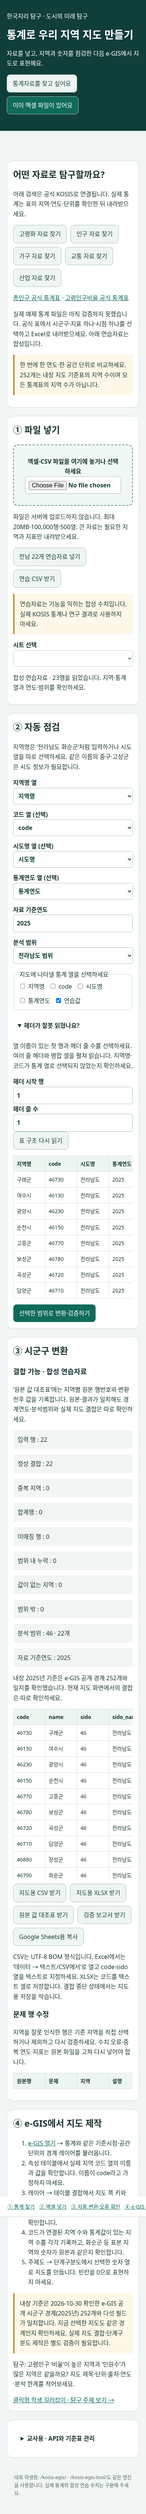
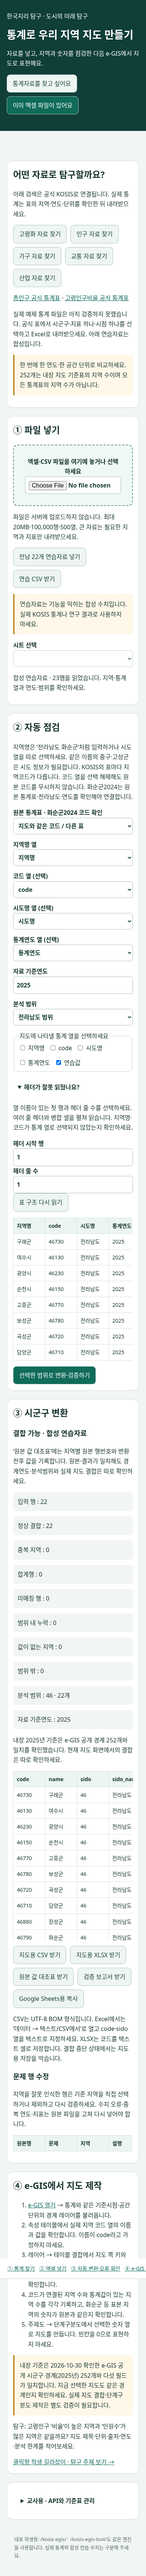
Guard Hwasun source codes with table province and year validation

diff --git a/kosis-egis-tool/core.js b/kosis-egis-tool/core.js
@@ -4,6 +4,22 @@
 const clean=v=>String(v??'').trim().normalize('NFC'), norm=v=>clean(v).replace(/\s+/g,'');
 const aliases={'서울':'서울특별시','부산':'부산광역시','대구':'대구광역시','인천':'인천광역시','광주':'광주광역시','대전':'대전광역시','울산':'울산광역시','세종':'세종특별자치시','경기':'경기도','강원':'강원특별자치도','강원도':'강원특별자치도','충북':'충청북도','충남':'충청남도','전남':'전라남도','전북':'전북특별자치도','전라북도':'전북특별자치도','경북':'경상북도','경남':'경상남도','제주':'제주특별자치도'};
 const province=v=>aliases[clean(v)]||clean(v);
+// Narrow, table-scoped crosswalk supplied by the user; not a national code conversion.
+const sourceProfiles={
+ population_2024:{orgId:'101',tableId:'DT_1B040A3',itemId:'T20',sourceCode:'46790'},
+ aging_2024:{orgId:'101',tableId:'DT_1YL20631',itemId:'T10',sourceCode:'1236370'},
+ business_2024:{orgId:'118',tableId:'DT_118N_SAUPM78',itemId:'16118ED_1',sourceCode:'2017zone_3637',industry:'INDUSTRY_11S0',size:'15118SIZES_0700'}
+};
+function reviewSourceRegion({sourceCode,name,sido,period,selectedPeriod,profile,metadata={}}){
+ const code=clean(sourceCode),n=norm(name),p=sourceProfiles[profile];
+ if(code==='12760'&&(n==='화순군'||profile==='population_2024'))return {applies:true,allowed:false,reason:'12760은 화순군 이름 검색 후보일 뿐 검증된 2024년 결합코드가 아닙니다.'};
+ const foreign=['1236370','2017zone_3637'].includes(code);
+ if(!foreign&&!(p&&(n==='화순군'||code==='46790')))return {applies:false};
+ if(!p)return {applies:true,allowed:false,reason:'원본 통계표를 선택하세요. 이름만으로 서로 다른 코드체계를 연결하지 않습니다.'};
+ const same=Object.entries(p).filter(([k])=>k!=='sourceCode').every(([k,v])=>!clean(metadata[k])||clean(metadata[k])===v);
+ if(!same||code!==p.sourceCode||n!=='화순군'||province(sido)!=='전라남도'||clean(period)!=='2024'||clean(selectedPeriod)!=='2024')return {applies:true,allowed:false,reason:'화순군 기준의 원본표·항목·코드·전라남도·2024년을 함께 확인하세요.'};
+ return {applies:true,allowed:true,targetCode:'46790',reason:'사용자 외부 조회 기준으로 확인한 화순군 2024년 한 지역 교차표'};
+}
 function validateReference(ref){
  if(!ref.length)throw Error('기준표가 비어 있습니다.');
  const codes=new Set(),pairs=new Set();
@@ -41,9 +57,11 @@ function convert(ref,a,settings){
  const byCode=new Map(ref.map(r=>[r.code,r])),provinces=new Set(ref.map(r=>r.sido_name)),issues=[],groups=new Map(),years=new Set();let context='',parent='',input=0,aggregate=0,unmatched=0,outside=0;
  const provinceTokens=[...provinces,...Object.keys(aliases)].sort((x,y)=>y.length-x.length);
  const names=new Map(),pairs=new Map(),targetCodes=new Set(target.map(r=>r.code));for(const r of ref){const k=norm(r.name);if(!names.has(k))names.set(k,[]);names.get(k).push(r);pairs.set(r.sido_name+'|'+k,r);}
+ const sourceColumn=code>=0?code:a.code,headerYears=[...new Set(a.headers.flatMap(h=>h.match(/(?:19|20)\d{2}/g)||[]))];
+ const metaColumn=patterns=>a.headers.findIndex(h=>patterns.test(h));const metaCols={orgId:metaColumn(/^(orgId|ORG_ID)$/i),tableId:metaColumn(/^(tableId|tblId|TBL_ID)$/i),itemId:metaColumn(/^(itemId|itmId|ITM_ID)$/i),industry:metaColumn(/^(industry|산업코드|C2)$/i),size:metaColumn(/^(size|규모코드|C3)$/i)};
  const fixes=settings.fixes||{}, metricHeaders=metrics.map(i=>['code','name','sido','sido_name','base_year'].includes(a.headers[i])?'통계_'+a.headers[i]:a.headers[i]);
  for(let n=a.dataStart;n<a.src.length;n++){
- const row=a.src[n];if(row.every(v=>!clean(v)))continue;input++;const rowNo=n+1,raw=clean(row[name]),rawCode=clean(row[code]);let region=raw,explicit=province(row[sido]),p='';
+ const row=a.src[n];if(row.every(v=>!clean(v)))continue;input++;const rowNo=n+1,raw=clean(row[name]),rawCode=clean(row[sourceColumn]);let region=raw,explicit=province(row[sido]),p='';
  for(const token of provinceTokens){if(region===token||region.startsWith(token+' ')){p=province(token);region=region.slice(token.length).trim();break;}}
  const issue=(type,detail)=>issues.push({row:rowNo,type,region:raw,code:rawCode,detail});
  if(explicit&&!provinces.has(explicit)){issue('시도 오류','시도명 열을 확인하세요.');unmatched++;continue;}
@@ -51,13 +69,19 @@ function convert(ref,a,settings){
  if(p||explicit){const next=p||explicit;if(next!==context)parent='';context=next;}
  if(year>=0&&clean(row[year]))years.add(clean(row[year]));
  const fixed=fixes[rowNo];if(fixed==='skip'){issue('수동 제외','사용자가 제외한 원본행');continue;}
- let match=null;
+ const metadata=Object.fromEntries(Object.entries(metaCols).map(([k,c])=>[k,c>=0?row[c]:'']));
+ const profile=settings.sourceProfile||Object.keys(sourceProfiles).find(key=>Object.entries(sourceProfiles[key]).filter(([k])=>k!=='sourceCode').every(([k,v])=>clean(metadata[k])===v))||'';
+ const sourceYear=year>=0?clean(row[year]):headerYears.length===1?headerYears[0]:'';
+ const guard=reviewSourceRegion({sourceCode:rawCode,name:region,sido:explicit||p,period:sourceYear,selectedPeriod:settings.period,profile,metadata});
+ if(guard.applies&&(!guard.allowed||(fixed&&fixed!==guard.targetCode))){issue('원본 불일치',guard.reason);unmatched++;continue;}
+ let match=guard.allowed?byCode.get(guard.targetCode):null;
+ if(guard.allowed)issue('원본 코드 교차표',rawCode+' → '+guard.targetCode+' / '+profile+' / 사용자 제공 기준, 전남 전수검증 아님');
  if(!fixed&&!rawCode&&(!region||/^(전국|합계|총계|소계|계)$/.test(region))){
   if(context==='세종특별자치시'&&raw!=='전국')match=ref.find(r=>r.sido_name===context);else{aggregate++;issue('합계행','지도 결합에서 제외');continue;}
  }
  const candidates=region?(names.get(norm(region))||[]).filter(r=>!context||r.sido_name===context):[];
- if(fixed){issue('수동 지정','사용자가 기준 지역 '+fixed+' 선택');match=byCode.get(fixed);if(!match){issue('수동 코드 오류','기준표에서 다시 선택하세요.');unmatched++;continue;}}
- else if(rawCode){match=byCode.get(rawCode);if(!match|| (context&&match.sido_name!==context)|| (region&&norm(region)!==norm(match.name)&&!(parent&&norm(parent+region)===norm(match.name)))){issue('코드·이름 불일치','코드 형식·지역명·시도를 함께 확인하세요.');unmatched++;continue;}}
+ if(!guard.allowed&&fixed){issue('수동 지정','사용자가 기준 지역 '+fixed+' 선택');match=byCode.get(fixed);if(!match){issue('수동 코드 오류','기준표에서 다시 선택하세요.');unmatched++;continue;}}
+ else if(!guard.allowed&&rawCode){match=byCode.get(rawCode);if(!match|| (context&&match.sido_name!==context)|| (region&&norm(region)!==norm(match.name)&&!(parent&&norm(parent+region)===norm(match.name)))){issue('코드·이름 불일치','원본 코드·시도·이름을 확인하세요. 다른 코드체계는 검증된 교차표 없이 이름만으로 연결하지 않습니다.');unmatched++;continue;}}
  else if(!match){
   if(candidates.length===1)match=candidates[0];
   else if(context&&parent){match=pairs.get(context+'|'+norm(parent+region))||null;}
@@ -74,13 +98,13 @@ function convert(ref,a,settings){
  const outputRefs=scope==='sample'?ref.filter(r=>groups.has(r.code)):target;
  const output=outputRefs.map(r=>{const hits=groups.get(r.code),hit=hits?.length===1?hits[0]:null;return {...r,...Object.fromEntries(metricHeaders.map((h,j)=>[h,hit?hit.values[j].value:'']))};});
  const outputByCode=new Map(output.map(r=>[r.code,r])),audit=[];
- for(const [key,hits] of groups)for(const hit of hits)metrics.forEach((column,j)=>{const original=a.src[hit.row-1]?.[column]??'',value=outputByCode.get(key)?.[metricHeaders[j]];audit.push({source_row:hit.row,source_code:code>=0?clean(a.src[hit.row-1]?.[code]):'',gis_code:key,name:hit.match.name,metric:metricHeaders[j],original_value:original,normalized_value:hit.values[j].value,output_value:value,value_kind:hit.values[j].kind,comparison:hits.length>1?'중복 미비교':hit.values[j].kind==='invalid'?'수치 오류':value===hit.values[j].value?'일치':'불일치'});});
+ for(const [key,hits] of groups)for(const hit of hits)metrics.forEach((column,j)=>{const original=a.src[hit.row-1]?.[column]??'',value=outputByCode.get(key)?.[metricHeaders[j]];audit.push({source_row:hit.row,source_code:sourceColumn>=0?clean(a.src[hit.row-1]?.[sourceColumn]):'',gis_code:key,name:hit.match.name,metric:metricHeaders[j],original_value:original,normalized_value:hit.values[j].value,output_value:value,value_kind:hit.values[j].kind,comparison:hits.length>1?'중복 미비교':hit.values[j].kind==='invalid'?'수치 오류':value===hit.values[j].value?'일치':'불일치'});});
  const matched=[...groups.values()].filter(h=>h.length===1).length,missing=outputRefs.filter(r=>!groups.has(r.code)).map(r=>r.code),empty=output.filter(r=>metricHeaders.some(h=>r[h]==='')).length;
  const period=settings.period||'',periods=[...years];const boundaryWarning=!period||ref.some(r=>r.base_year!==period)||periods.some(y=>y!==period);
  const stopped=!matched||duplicates>0||periods.length>1||issues.some(x=>/불일치|수치 오류|시도 오류|수동 코드 오류/.test(x.type));
- const status=stopped?'결합 중단':unmatched||missing.length||empty||outside||boundaryWarning||scope==='sample'?'확인 필요':'결합 가능';
+ const status=stopped?'결합 중단':unmatched||missing.length||empty||outside||boundaryWarning||issues.some(x=>/^수동/.test(x.type))||scope==='sample'?'확인 필요':'결합 가능';
  return {output,audit,headers:['code','name','sido','sido_name','base_year',...metricHeaders],issues,summary:{status,input,matched,duplicates,aggregate,unmatched,missing,empty,outside,scope,period,periods,boundaryWarning,referenceCount:ref.length,expected:scope==='sample'?null:target.length}};
 }
 function csv(rows,headers){const q=v=>'"'+String(v??'').replace(/"/g,'""')+'"';return '\uFEFF'+[headers.map(q).join(','),...rows.map(r=>headers.map(h=>q(r[h])).join(','))].join('\r\n');}
-const api={clean,norm,province,validateReference,parseDelimited,decode,number,expand,structure,convert,csv};if(typeof module!=='undefined')module.exports=api;else root.KosisCore=api;
+const api={sourceProfiles,reviewSourceRegion,clean,norm,province,validateReference,parseDelimited,decode,number,expand,structure,convert,csv};if(typeof module!=='undefined')module.exports=api;else root.KosisCore=api;
 })(globalThis);

diff --git a/kosis-egis-tool/index.html b/kosis-egis-tool/index.html
@@ -4,7 +4,7 @@
 <nav aria-label="작업 순서"><a href="#find">① 통계 찾기</a><a href="#upload">② 엑셀 넣기</a><a href="#check">③ 자동 변환·오류 확인</a><a href="#map">④ e-GIS 지도 만들기</a></nav>
 <main><section id="find"><h2>어떤 자료로 탐구할까요?</h2><p>아래 검색은 공식 KOSIS로 연결됩니다. 실제 통계는 표의 지역·연도·단위를 확인한 뒤 내려받으세요.</p><div class="choices" id="topics"></div><p><a href="https://kosis.kr/statHtml/statHtml.do?orgId=101&amp;tblId=DT_1B040A3" target="_blank" rel="noopener">총인구 공식 통계표</a> · <a href="https://kosis.kr/statHtml/statHtml.do?orgId=101&amp;tblId=DT_1YL20631" target="_blank" rel="noopener">고령인구비율 공식 통계표</a></p><p>실제 예제 통계 파일은 아직 검증하지 못했습니다. 공식 표에서 시군구·지표 하나·시점 하나를 선택하고 Excel로 내려받으세요. 아래 연습자료는 합성입니다.</p><p class="notice">한 번에 한 연도·한 공간 단위로 비교하세요. 252개는 내장 지도 기준표의 지역 수이며 모든 통계표의 지역 수가 아닙니다.</p></section>
 <section id="upload"><h2>① 파일 넣기</h2><label id="drop" tabindex="0">엑셀·CSV 파일을 여기에 놓거나 선택하세요<input id="file" type="file" accept=".xlsx,.xls,.csv,.txt"></label><p>파일은 서버에 업로드하지 않습니다. 최대 20MB·100,000행·500열. 큰 자료는 필요한 지역과 지표만 내려받으세요.</p><div class="choices"><button id="demo">전남 22개 연습자료 넣기</button><button id="sample">연습 CSV 받기</button></div><p class="notice">연습자료는 기능을 익히는 합성 수치입니다. 실제 KOSIS 통계나 연구 결과로 사용하지 마세요.</p><label>시트 선택<select id="sheet" disabled></select></label><p id="message" role="status" aria-live="polite">아직 파일을 넣지 않았습니다.</p></section>
-<section id="check"><h2>② 자동 점검</h2><p>지역명은 ‘전라남도 화순군’처럼 입력하거나 시도 열을 따로 선택하세요. 같은 이름의 중구·고성군은 시도 정보가 필요합니다.</p><div class="fields"><label>지역명 열<select id="name"></select></label><label>코드 열 (선택)<select id="code"></select></label><label>시도명 열 (선택)<select id="sido"></select></label><label>통계연도 열 (선택)<select id="year"></select></label><label>자료 기준연도<input id="period" placeholder="예: 2025" pattern="[0-9]{4}"></label><label>분석 범위<select id="scope"><option value="all">전국 · 기준표 전체</option><option value="sample">일부 표본 · 전수 여부 판단 안 함</option></select></label></div><fieldset><legend>지도에 나타낼 통계 열을 선택하세요</legend><div id="metrics"></div></fieldset><details><summary>헤더가 잘못 읽혔나요?</summary><p>열 이름이 있는 첫 행과 헤더 줄 수를 선택하세요. 여러 줄 헤더와 병합 셀을 펼쳐 읽습니다. 지역명·코드가 통계 열로 선택되지 않았는지 확인하세요.</p><label>헤더 시작 행<input id="header" type="number" value="1" min="1"></label><label>헤더 줄 수<input id="depth" type="number" min="1" max="5" value="1"></label><button id="structure">표 구조 다시 읽기</button></details><div id="raw" class="table"></div><button id="convert" class="primary" disabled>선택한 범위로 변환·검증하기</button></section>
+<section id="check"><h2>② 자동 점검</h2><p>지역명은 ‘전라남도 화순군’처럼 입력하거나 시도 열을 따로 선택하세요. 같은 이름의 중구·고성군은 시도 정보가 필요합니다. KOSIS의 표마다 지역코드가 다릅니다. 코드 열을 선택 해제해도 원본 코드를 무시하지 않습니다. 화순군2024는 원본 통계표·전라남도·연도를 확인해야 연결합니다.</p><div class="fields"><label>원본 통계표 · 화순군2024 코드 확인<select id="sourceProfile"><option value="">지도와 같은 코드 / 다른 표</option><option value="population_2024">총인구 · DT_1B040A3 / T20</option><option value="aging_2024">고령인구비율 · DT_1YL20631 / T10</option><option value="business_2024">사업체수 · DT_118N_SAUPM78 / 16118ED_1</option></select></label><label>지역명 열<select id="name"></select></label><label>코드 열 (선택)<select id="code"></select></label><label>시도명 열 (선택)<select id="sido"></select></label><label>통계연도 열 (선택)<select id="year"></select></label><label>자료 기준연도<input id="period" placeholder="예: 2025" pattern="[0-9]{4}"></label><label>분석 범위<select id="scope"><option value="all">전국 · 기준표 전체</option><option value="sample">일부 표본 · 전수 여부 판단 안 함</option></select></label></div><fieldset><legend>지도에 나타낼 통계 열을 선택하세요</legend><div id="metrics"></div></fieldset><details><summary>헤더가 잘못 읽혔나요?</summary><p>열 이름이 있는 첫 행과 헤더 줄 수를 선택하세요. 여러 줄 헤더와 병합 셀을 펼쳐 읽습니다. 지역명·코드가 통계 열로 선택되지 않았는지 확인하세요.</p><label>헤더 시작 행<input id="header" type="number" value="1" min="1"></label><label>헤더 줄 수<input id="depth" type="number" min="1" max="5" value="1"></label><button id="structure">표 구조 다시 읽기</button></details><div id="raw" class="table"></div><button id="convert" class="primary" disabled>선택한 범위로 변환·검증하기</button></section>
 <section id="result"><h2>③ 시군구 변환</h2><h3 id="readiness" role="status">파일을 넣고 변환하세요.</h3><p>‘원본 값 대조표’에는 지역별 원본 행번호와 변환 전후 값을 기록합니다. 원본·결과가 일치해도 경계연도·분석범위와 실제 지도 결합은 따로 확인하세요.</p><div id="summary" class="fields"></div><p id="warnings"></p><div id="preview" class="table"></div><div class="choices"><button id="csv" disabled>지도용 CSV 받기</button><button id="xlsx" disabled>지도용 XLSX 받기</button><button id="audit" disabled>원본 값 대조표 받기</button><button id="report" disabled>검증 보고서 받기</button><button id="copy" disabled>Google Sheets용 복사</button></div><p>CSV는 UTF-8 BOM 형식입니다. Excel에서는 ‘데이터 → 텍스트/CSV에서’로 열고 code·sido 열을 텍스트로 지정하세요. XLSX는 코드를 텍스트 셀로 저장합니다. 결합 중단 상태에서는 지도용 저장을 막습니다.</p><h3>문제 행 수정</h3><p>지역을 잘못 인식한 행은 기준 지역을 직접 선택하거나 제외하고 다시 검증하세요. 수치 오류·중복 연도·지표는 원본 파일을 고쳐 다시 넣어야 합니다.</p><div id="issues" class="table"></div></section>
 <section id="map"><h2>④ e-GIS에서 지도 제작</h2><ol><li><a href="https://www.e-gis.kr/" target="_blank" rel="noopener">e-GIS 열기</a> → 통계와 같은 기준시점·공간 단위의 경계 레이어를 불러옵니다.</li><li>속성 테이블에서 실제 지역 코드 열의 이름과 값을 확인합니다. 이름이 code라고 가정하지 마세요.</li><li>레이어 → 테이블 결합에서 지도 쪽 키와 CSV 쪽 <b>code</b>를 각각 선택합니다. Google Sheets도 실제로 인식된 열 이름과 값을 확인합니다.</li><li>코드가 연결된 지역 수와 통계값이 있는 지역 수를 각각 기록하고, 화순군 등 표본 지역의 숫자가 원본과 같은지 확인합니다.</li><li>주제도 → 단계구분도에서 선택한 숫자 열로 지도를 만듭니다. 빈칸을 0으로 표현하지 마세요.</li></ol><p class="notice">내장 기준은 2026-10-30 확인한 e-GIS 공개 시군구 경계(2025년) 252개와 다섯 필드가 일치합니다. 지금 선택한 지도도 같은 경계인지 확인하세요. 실제 지도 결합·단계구분도 제작은 별도 검증이 필요합니다.</p><p>탐구: 고령인구 ‘비율’이 높은 지역과 ‘인원수’가 많은 지역은 같을까요? 지도 제목·단위·출처·연도·분석 한계를 적어보세요.</p><a href="../egis-student-guide/">클릭형 학생 길라잡이 · 탐구 주제 보기 →</a></section>
 <details id="teacher"><summary>교사용 · API와 기준표 관리</summary><h2>기준표·수업 자료 관리</h2><p>내장 2025년 기준표의 code·name·sido·sido_name·base_year를 유지합니다. 개편된 지역을 과거 지역과 자동으로 합치거나 값을 복제하지 않습니다.</p><label>실제 레이어에서 추출한 기준 CSV<input id="reference" type="file" accept=".csv,.txt"></label><button id="downloadRef">현재 기준표 받기</button><button id="share">학생 안내·링크 복사</button><a href="../kosis-egis-tool/README.md">설계·테스트 실행 안내</a><h2>KOSIS API 고급 조회</h2><p>API 키를 입력하지 마세요. 별도 인증·호출 제한이 설정된 교사 관리 Worker만 사용하세요. 화면을 접어 두는 것은 인증이 아닙니다.</p><div class="fields"><label>교사 Worker HTTPS 주소<input id="worker" placeholder="https://관리하는-worker주소"></label><label>기관 ID<input id="orgId" value="101"></label><label>통계표 ID<input id="tblId" placeholder="공식 표에서 확인"></label><label>분류 objL1<input id="objL1" value="ALL"></label><label>항목 itmId<input id="itmId" placeholder="한 항목 코드"></label><label>주기<select id="prdSe"><option>Y</option><option>M</option><option>Q</option></select></label><label>시작 시점<input id="startPrdDe"></label><label>끝 시점<input id="endPrdDe"></label></div><button id="fetch">조회 결과를 파일처럼 불러오기</button><p id="apiMessage" role="status">실조회는 인증과 서비스 접근 권한이 필요합니다. 항목·시점을 하나씩 조회하세요.</p></details>

diff --git a/kosis-egis/index.html b/kosis-egis/index.html
@@ -4,7 +4,7 @@
 <nav aria-label="작업 순서"><a href="#find">① 통계 찾기</a><a href="#upload">② 엑셀 넣기</a><a href="#check">③ 자동 변환·오류 확인</a><a href="#map">④ e-GIS 지도 만들기</a></nav>
 <main><section id="find"><h2>어떤 자료로 탐구할까요?</h2><p>아래 검색은 공식 KOSIS로 연결됩니다. 실제 통계는 표의 지역·연도·단위를 확인한 뒤 내려받으세요.</p><div class="choices" id="topics"></div><p><a href="https://kosis.kr/statHtml/statHtml.do?orgId=101&amp;tblId=DT_1B040A3" target="_blank" rel="noopener">총인구 공식 통계표</a> · <a href="https://kosis.kr/statHtml/statHtml.do?orgId=101&amp;tblId=DT_1YL20631" target="_blank" rel="noopener">고령인구비율 공식 통계표</a></p><p>실제 예제 통계 파일은 아직 검증하지 못했습니다. 공식 표에서 시군구·지표 하나·시점 하나를 선택하고 Excel로 내려받으세요. 아래 연습자료는 합성입니다.</p><p class="notice">한 번에 한 연도·한 공간 단위로 비교하세요. 252개는 내장 지도 기준표의 지역 수이며 모든 통계표의 지역 수가 아닙니다.</p></section>
 <section id="upload"><h2>① 파일 넣기</h2><label id="drop" tabindex="0">엑셀·CSV 파일을 여기에 놓거나 선택하세요<input id="file" type="file" accept=".xlsx,.xls,.csv,.txt"></label><p>파일은 서버에 업로드하지 않습니다. 최대 20MB·100,000행·500열. 큰 자료는 필요한 지역과 지표만 내려받으세요.</p><div class="choices"><button id="demo">전남 22개 연습자료 넣기</button><button id="sample">연습 CSV 받기</button></div><p class="notice">연습자료는 기능을 익히는 합성 수치입니다. 실제 KOSIS 통계나 연구 결과로 사용하지 마세요.</p><label>시트 선택<select id="sheet" disabled></select></label><p id="message" role="status" aria-live="polite">아직 파일을 넣지 않았습니다.</p></section>
-<section id="check"><h2>② 자동 점검</h2><p>지역명은 ‘전라남도 화순군’처럼 입력하거나 시도 열을 따로 선택하세요. 같은 이름의 중구·고성군은 시도 정보가 필요합니다.</p><div class="fields"><label>지역명 열<select id="name"></select></label><label>코드 열 (선택)<select id="code"></select></label><label>시도명 열 (선택)<select id="sido"></select></label><label>통계연도 열 (선택)<select id="year"></select></label><label>자료 기준연도<input id="period" placeholder="예: 2025" pattern="[0-9]{4}"></label><label>분석 범위<select id="scope"><option value="all">전국 · 기준표 전체</option><option value="sample">일부 표본 · 전수 여부 판단 안 함</option></select></label></div><fieldset><legend>지도에 나타낼 통계 열을 선택하세요</legend><div id="metrics"></div></fieldset><details><summary>헤더가 잘못 읽혔나요?</summary><p>열 이름이 있는 첫 행과 헤더 줄 수를 선택하세요. 여러 줄 헤더와 병합 셀을 펼쳐 읽습니다. 지역명·코드가 통계 열로 선택되지 않았는지 확인하세요.</p><label>헤더 시작 행<input id="header" type="number" value="1" min="1"></label><label>헤더 줄 수<input id="depth" type="number" min="1" max="5" value="1"></label><button id="structure">표 구조 다시 읽기</button></details><div id="raw" class="table"></div><button id="convert" class="primary" disabled>선택한 범위로 변환·검증하기</button></section>
+<section id="check"><h2>② 자동 점검</h2><p>지역명은 ‘전라남도 화순군’처럼 입력하거나 시도 열을 따로 선택하세요. 같은 이름의 중구·고성군은 시도 정보가 필요합니다. KOSIS의 표마다 지역코드가 다릅니다. 코드 열을 선택 해제해도 원본 코드를 무시하지 않습니다. 화순군2024는 원본 통계표·전라남도·연도를 확인해야 연결합니다.</p><div class="fields"><label>원본 통계표 · 화순군2024 코드 확인<select id="sourceProfile"><option value="">지도와 같은 코드 / 다른 표</option><option value="population_2024">총인구 · DT_1B040A3 / T20</option><option value="aging_2024">고령인구비율 · DT_1YL20631 / T10</option><option value="business_2024">사업체수 · DT_118N_SAUPM78 / 16118ED_1</option></select></label><label>지역명 열<select id="name"></select></label><label>코드 열 (선택)<select id="code"></select></label><label>시도명 열 (선택)<select id="sido"></select></label><label>통계연도 열 (선택)<select id="year"></select></label><label>자료 기준연도<input id="period" placeholder="예: 2025" pattern="[0-9]{4}"></label><label>분석 범위<select id="scope"><option value="all">전국 · 기준표 전체</option><option value="sample">일부 표본 · 전수 여부 판단 안 함</option></select></label></div><fieldset><legend>지도에 나타낼 통계 열을 선택하세요</legend><div id="metrics"></div></fieldset><details><summary>헤더가 잘못 읽혔나요?</summary><p>열 이름이 있는 첫 행과 헤더 줄 수를 선택하세요. 여러 줄 헤더와 병합 셀을 펼쳐 읽습니다. 지역명·코드가 통계 열로 선택되지 않았는지 확인하세요.</p><label>헤더 시작 행<input id="header" type="number" value="1" min="1"></label><label>헤더 줄 수<input id="depth" type="number" min="1" max="5" value="1"></label><button id="structure">표 구조 다시 읽기</button></details><div id="raw" class="table"></div><button id="convert" class="primary" disabled>선택한 범위로 변환·검증하기</button></section>
 <section id="result"><h2>③ 시군구 변환</h2><h3 id="readiness" role="status">파일을 넣고 변환하세요.</h3><p>‘원본 값 대조표’에는 지역별 원본 행번호와 변환 전후 값을 기록합니다. 원본·결과가 일치해도 경계연도·분석범위와 실제 지도 결합은 따로 확인하세요.</p><div id="summary" class="fields"></div><p id="warnings"></p><div id="preview" class="table"></div><div class="choices"><button id="csv" disabled>지도용 CSV 받기</button><button id="xlsx" disabled>지도용 XLSX 받기</button><button id="audit" disabled>원본 값 대조표 받기</button><button id="report" disabled>검증 보고서 받기</button><button id="copy" disabled>Google Sheets용 복사</button></div><p>CSV는 UTF-8 BOM 형식입니다. Excel에서는 ‘데이터 → 텍스트/CSV에서’로 열고 code·sido 열을 텍스트로 지정하세요. XLSX는 코드를 텍스트 셀로 저장합니다. 결합 중단 상태에서는 지도용 저장을 막습니다.</p><h3>문제 행 수정</h3><p>지역을 잘못 인식한 행은 기준 지역을 직접 선택하거나 제외하고 다시 검증하세요. 수치 오류·중복 연도·지표는 원본 파일을 고쳐 다시 넣어야 합니다.</p><div id="issues" class="table"></div></section>
 <section id="map"><h2>④ e-GIS에서 지도 제작</h2><ol><li><a href="https://www.e-gis.kr/" target="_blank" rel="noopener">e-GIS 열기</a> → 통계와 같은 기준시점·공간 단위의 경계 레이어를 불러옵니다.</li><li>속성 테이블에서 실제 지역 코드 열의 이름과 값을 확인합니다. 이름이 code라고 가정하지 마세요.</li><li>레이어 → 테이블 결합에서 지도 쪽 키와 CSV 쪽 <b>code</b>를 각각 선택합니다. Google Sheets도 실제로 인식된 열 이름과 값을 확인합니다.</li><li>코드가 연결된 지역 수와 통계값이 있는 지역 수를 각각 기록하고, 화순군 등 표본 지역의 숫자가 원본과 같은지 확인합니다.</li><li>주제도 → 단계구분도에서 선택한 숫자 열로 지도를 만듭니다. 빈칸을 0으로 표현하지 마세요.</li></ol><p class="notice">내장 기준은 2026-10-30 확인한 e-GIS 공개 시군구 경계(2025년) 252개와 다섯 필드가 일치합니다. 지금 선택한 지도도 같은 경계인지 확인하세요. 실제 지도 결합·단계구분도 제작은 별도 검증이 필요합니다.</p><p>탐구: 고령인구 ‘비율’이 높은 지역과 ‘인원수’가 많은 지역은 같을까요? 지도 제목·단위·출처·연도·분석 한계를 적어보세요.</p><a href="../egis-student-guide/">클릭형 학생 길라잡이 · 탐구 주제 보기 →</a></section>
 <details id="teacher"><summary>교사용 · API와 기준표 관리</summary><h2>기준표·수업 자료 관리</h2><p>내장 2025년 기준표의 code·name·sido·sido_name·base_year를 유지합니다. 개편된 지역을 과거 지역과 자동으로 합치거나 값을 복제하지 않습니다.</p><label>실제 레이어에서 추출한 기준 CSV<input id="reference" type="file" accept=".csv,.txt"></label><button id="downloadRef">현재 기준표 받기</button><button id="share">학생 안내·링크 복사</button><a href="../kosis-egis-tool/README.md">설계·테스트 실행 안내</a><h2>KOSIS API 고급 조회</h2><p>API 키를 입력하지 마세요. 별도 인증·호출 제한이 설정된 교사 관리 Worker만 사용하세요. 화면을 접어 두는 것은 인증이 아닙니다.</p><div class="fields"><label>교사 Worker HTTPS 주소<input id="worker" placeholder="https://관리하는-worker주소"></label><label>기관 ID<input id="orgId" value="101"></label><label>통계표 ID<input id="tblId" placeholder="공식 표에서 확인"></label><label>분류 objL1<input id="objL1" value="ALL"></label><label>항목 itmId<input id="itmId" placeholder="한 항목 코드"></label><label>주기<select id="prdSe"><option>Y</option><option>M</option><option>Q</option></select></label><label>시작 시점<input id="startPrdDe"></label><label>끝 시점<input id="endPrdDe"></label></div><button id="fetch">조회 결과를 파일처럼 불러오기</button><p id="apiMessage" role="status">실조회는 인증과 서비스 접근 권한이 필요합니다. 항목·시점을 하나씩 조회하세요.</p></details>

diff --git a/kosis-egis-tool/app.js b/kosis-egis-tool/app.js
@@ -15,7 +15,7 @@ function analyze(settings){invalidate();analysis=C.structure(rows,merges,setting
 async function load(file){invalidate();$('convert').disabled=true;analysis=null;fixes={};synthetic=false;book=null;merges=[];$('sheet').replaceChildren();$('sheet').disabled=true;if(file.size>20*1024*1024)throw Error('파일이 20MB보다 큽니다. KOSIS에서 필요한 지역·지표만 내려받으세요.');const ext=file.name.split('.').pop().toLowerCase();message('파일을 읽고 있습니다…');await new Promise(r=>setTimeout(r,20));
  if(['csv','txt'].includes(ext))rows=C.parseDelimited(C.decode(await file.arrayBuffer()));else if(['xlsx','xls'].includes(ext)){if(!globalThis.XLSX)throw Error('Excel 기능을 불러오지 못했습니다. CSV로 저장해 넣거나 연결을 확인하세요.');book=XLSX.read(await file.arrayBuffer(),{type:'array',cellDates:false});book.SheetNames.forEach(n=>option($('sheet'),n,n));$('sheet').disabled=false;$('sheet').value=book.SheetNames.find(n=>!/설명|메타|주석|안내/i.test(n))||book.SheetNames[0];readSheet();return;}else throw Error('XLSX·XLS·CSV·TXT 파일만 지원합니다.');if(rows.length>100000)throw Error('100,000행보다 많습니다. 연도·지표를 줄여 다시 넣으세요.');analyze();}
 function readSheet(){invalidate();analysis=null;$('convert').disabled=true;fixes={};const ws=book.Sheets[$('sheet').value];const range=XLSX.utils.decode_range(ws['!ref']||'A1');if(range.e.r>=100000||range.e.c>=500)throw Error('시트가 100,000행 또는 500열을 초과합니다.');rows=XLSX.utils.sheet_to_json(ws,{header:1,defval:'',raw:true,blankrows:true});merges=ws['!merges']||[];analyze();}
-function settings(){return {metrics:[...$('metrics').querySelectorAll('input:checked')].map(e=>+e.value),...Object.fromEntries(['name','code','sido','year'].map(id=>[id,+$(id).value])),period:$('period').value.trim(),scope:$('scope').value,fixes};}
+function settings(){return {metrics:[...$('metrics').querySelectorAll('input:checked')].map(e=>+e.value),...Object.fromEntries(['name','code','sido','year'].map(id=>[id,+$(id).value])),period:$('period').value.trim(),scope:$('scope').value,sourceProfile:$('sourceProfile').value,fixes};}
 async function run(){if(!analysis)return;invalidate();const epoch=generation;$('readiness').textContent='지역과 수치를 점검하고 있습니다…';
  const converted=await new Promise((resolve,reject)=>{const worker=new Worker('../kosis-egis-tool/conversion-worker.js');worker.onmessage=e=>{worker.terminate();e.data.error?reject(Error(e.data.error)):resolve(e.data.result);};worker.onerror=()=>{worker.terminate();reject(Error('변환 작업을 시작하지 못했습니다. 페이지를 새로고침하세요.'));};worker.postMessage({ref,analysis,settings:settings()});});
  if(epoch!==generation)return;result=converted;const s=result.summary;$('readiness').textContent=s.status+(synthetic?' · 합성 연습자료':'');
@@ -24,16 +24,16 @@ async function run(){if(!analysis)return;invalidate();const epoch=generation;$('
  $('warnings').textContent=(s.boundaryWarning?'연도 확인 필요: 자료 연도와 기준표 연도가 다르거나 미입력입니다. 행정구역 개편·경계 기준일을 확인하세요. ':'')+(referenceVerified?'내장 2025년 기준은 e-GIS 공개 경계 252개와 일치를 확인했습니다. 현재 지도 화면에서의 결합은 따로 확인하세요. ':'교체한 기준표와 실제 지도 경계의 일치를 확인하세요. ')+(s.missing.length?'범위 내 누락 코드: '+s.missing.join(', '):'');
  table($('preview'),result.headers,result.output.slice(0,40).map(r=>result.headers.map(h=>r[h])));
  table($('issues'),['원본행','문제','지역','설명','지역 수정'],result.issues.slice(0,200).map(i=>[i.row,i.type,i.region,i.detail,'']));
- [...$('issues').querySelectorAll('tr')].slice(1).forEach((tr,i)=>{const issue=result.issues[i];if(!/미매칭|동명이|불일치|시도 오류/.test(issue.type))return;const select=document.createElement('select');select.setAttribute('aria-label',issue.row+'행 지역 수정');option(select,'','지역 직접 선택');option(select,'skip','이 행 제외');ref.forEach(r=>option(select,r.code,r.sido_name+' '+r.name));select.onchange=()=>{if(select.value){fixes[issue.row]=select.value;safe(run)();}};tr.lastChild.append(select);});
+ [...$('issues').querySelectorAll('tr')].slice(1).forEach((tr,i)=>{const issue=result.issues[i];if(issue.type==='원본 불일치'||!/미매칭|동명이|불일치|시도 오류/.test(issue.type))return;const select=document.createElement('select');select.setAttribute('aria-label',issue.row+'행 지역 수정');option(select,'','지역 직접 선택');option(select,'skip','이 행 제외');ref.forEach(r=>option(select,r.code,r.sido_name+' '+r.name));select.onchange=()=>{if(select.value){fixes[issue.row]=select.value;safe(run)();}};tr.lastChild.append(select);});
  ['csv','xlsx','copy'].forEach(id=>$(id).disabled=s.status==='결합 중단');$('report').disabled=false;$('audit').disabled=false;}
 function download(text,name,type='text/csv;charset=utf-8'){const a=document.createElement('a'),url=URL.createObjectURL(new Blob([text],{type}));a.href=url;a.download=name;a.click();setTimeout(()=>URL.revokeObjectURL(url),1000);}
 function demoRows(){return [['지역명','code','시도명','통계연도','연습값'],...ref.filter(r=>r.sido==='46').map((r,i)=>[r.name,r.code,r.sido_name,r.base_year,i+1])];}
-function demo(){$('file').value='';rows=demoRows();merges=[];book=null;fixes={};synthetic=true;$('sheet').replaceChildren();$('sheet').disabled=true;analyze();$('scope').value='46';$('period').value='2025';}
+function demo(){$('sourceProfile').value='';$('file').value='';rows=demoRows();merges=[];book=null;fixes={};synthetic=true;$('sheet').replaceChildren();$('sheet').disabled=true;analyze();$('scope').value='46';$('period').value='2025';}
 const safe=fn=>async(...args)=>{try{await fn(...args);}catch(e){message('확인 필요: '+e.message);if(!result)$('readiness').textContent='확인 필요: '+e.message;}};
 async function init(){const response=await fetch('../kosis-egis-tool/reference.json');if(!response.ok)throw Error('기준표를 불러오지 못했습니다. 페이지를 새로고침하세요.');ref=C.validateReference(await response.json());for(const s of [...new Set(ref.map(r=>r.sido))])option($('scope'),s,ref.find(r=>r.sido===s).sido_name+' 범위');
  for(const [topic,query] of [['고령화','고령인구비율 시군구'],['인구','총인구 시군구'],['가구','1인가구 시군구'],['교통','자동차등록 시군구'],['산업','사업체 종사자 시군구']]){const a=document.createElement('a');a.className='button';a.textContent=topic+' 자료 찾기';a.href='https://kosis.kr/search/search.do?query='+encodeURIComponent(query);a.target='_blank';a.rel='noopener';$('topics').append(a);}
  $('file').onchange=safe(e=>e.target.files[0]&&load(e.target.files[0]));$('sheet').onchange=safe(readSheet);$('drop').onkeydown=e=>{if(e.key==='Enter'||e.key===' '){e.preventDefault();$('file').click();}};for(const type of ['dragover','drop'])$('drop').addEventListener(type,e=>{e.preventDefault();if(type==='drop'&&e.dataTransfer.files[0])safe(load)(e.dataTransfer.files[0]);});
- $('demo').onclick=demo;$('sample').onclick=()=>{const d=demoRows();download(C.csv(d.slice(1).map(r=>Object.fromEntries(d[0].map((h,i)=>[h,r[i]]))),d[0]),'합성연습_전남22.csv');};$('convert').onclick=safe(run);$('structure').onclick=safe(()=>{fixes={};analyze({start:+$('header').value-1,depth:+$('depth').value});});for(const id of ['name','code','sido','year','period','scope'])$(id).onchange=invalidate;
+ $('demo').onclick=demo;$('sample').onclick=()=>{const d=demoRows();download(C.csv(d.slice(1).map(r=>Object.fromEntries(d[0].map((h,i)=>[h,r[i]]))),d[0]),'합성연습_전남22.csv');};$('convert').onclick=safe(run);$('structure').onclick=safe(()=>{fixes={};analyze({start:+$('header').value-1,depth:+$('depth').value});});for(const id of ['name','code','sido','year','period','scope','sourceProfile'])$(id).onchange=invalidate;
  $('audit').onclick=()=>result&&download(C.csv(result.audit,['source_row','source_code','gis_code','name','metric','original_value','normalized_value','output_value','value_kind','comparison']),'egis_original_value_audit.csv');
  $('csv').onclick=()=>result&&download(C.csv(result.output,result.headers),'egis_'+(synthetic?'합성연습':'통계')+'.csv');$('report').onclick=()=>result&&download(JSON.stringify({synthetic,...result.summary,issues:result.issues,audit:result.audit},null,2),'egis_validation.json','application/json');
  $('xlsx').onclick=safe(()=>{if(!result)return;if(!globalThis.XLSX)throw Error('Excel 기능을 사용할 수 없습니다. CSV를 사용하세요.');const wb=XLSX.utils.book_new();XLSX.utils.book_append_sheet(wb,XLSX.utils.json_to_sheet(result.output,{header:result.headers}),'GIS');XLSX.utils.book_append_sheet(wb,XLSX.utils.json_to_sheet(result.issues),'검증');XLSX.utils.book_append_sheet(wb,XLSX.utils.json_to_sheet(result.audit),'원본값대조');XLSX.writeFile(wb,'egis_'+(synthetic?'합성연습':'통계')+'.xlsx');});$('copy').onclick=safe(async()=>{if(result){await navigator.clipboard.writeText([result.headers,...result.output.map(r=>result.headers.map(h=>r[h]))].map(r=>r.map(v=>String(v).replace(/[\t\r\n]/g,' ')).join('\t')).join('\n'));message('복사했습니다. GIS에서 실제 열 이름과 코드 값을 확인하세요.');}});

diff --git a/tests/kosis-egis/build_windows_kit.py b/tests/kosis-egis/build_windows_kit.py
@@ -23,6 +23,7 @@ if not js.exists():raise SystemExit('Run npm ci --ignore-scripts in tests/kosis-
 shutil.copy2(js,kit/'site/kosis-egis-tool/xlsx.full.min.js');shutil.copy2(js.parent.parent/'LICENSE',kit/'SheetJS-LICENSE.txt')
 p=kit/'site/kosis-egis/index.html';p.write_text(p.read_text(encoding='utf-8').replace('https://cdn.jsdelivr.net/npm/xlsx@0.18.5/dist/xlsx.full.min.js','../kosis-egis-tool/xlsx.full.min.js'),encoding='utf-8')
 shutil.copy2(root/'docs/kosis-egis/windows-guide.md',kit/'WINDOWS-START-HERE.md');shutil.copy2(root/'docs/kosis-egis/classroom-checklist.md',kit/'PR8-CHECKLIST.md')
+shutil.copy2(root/'docs/kosis-egis/hwasun-2024-followup.md',kit/'HWASUN-2024-FOLLOWUP.md')
 (kit/'README.md').write_text('Start with WINDOWS-START-HERE.md. Node.js 22+ required. No Python or npm install is needed on the teacher PC.\n',encoding='utf-8')
 manifest={str(p.relative_to(kit)).replace('\\','/'):hashlib.sha256(p.read_bytes()).hexdigest() for p in kit.rglob('*') if p.is_file()}
 (kit/'sha256-manifest.json').write_text(json.dumps(manifest,ensure_ascii=False,indent=2),encoding='utf-8')

diff --git a/docs/kosis-egis/hwasun-2024-followup.md b/docs/kosis-egis/hwasun-2024-followup.md
@@ -1,0 +1,52 @@
+# 화순군 2024 기준값 후속 검증과 남은 수동 작업
+
+기준 PR8 / c3b4e7099c308e40bd5af5165bdcc9233433bbd3 이후 보완. 2026-10-30 KST.
+
+## 현재 판단
+
+**실제 수업 최종 승인 보류.** 사용자 외부 조회 기준값으로 화순군 한 지역의 세 지표를 재현했고, 코드체계가 다른 원본을 잘못 연결하는 경로를 막았습니다. 전남22개 전수 비교와 실제 e-GIS 단계구분도 제작은 미검증입니다. 이 작업에서 공식 원본 파일을 다운로드하거나 세 수치를 독립 재조회했다고 주장하지 않습니다.
+
+| 원본표 / 항목 | 사용자 확인 원본 코드 | 사용자 외부조회 기준값 | 지도키 |
+|---|---|---|---|
+| org101 / DT_1B040A3 / T20 | 46790 | 60,735명 | 46790 |
+| org101 / DT_1YL20631 / T10 | 1236370 | 30.9% | 46790 |
+| org118 / DT_118N_SAUPM78 / 16118ED_1 | 2017zone_3637 | 2,605개(전체산업·전규모) | 46790 |
+
+위 코드는 **각 통계표 안의 분류코드**입니다. 길이·접두를 고쳐 GIS코드를 만드는 규칙이 아닙니다. 출처표·항목·지역·시점에 묶인 화순군2024 한 지역 교차표만 확인했습니다. 다른21개 지역의 코드를 이 규칙으로 생성하지 않습니다. 인구표에서 이름검색으로 반환된12760은 원본표·행정단계·시점 확인 없이 선택하지 않습니다. 12760의 역사적 의미를 추측하거나 모든 표에서 무효인 코드라고 단정하지 않습니다.
+
+## 안전성 수정과 실제 검증 범위
+
+- 기존에는 코드 열을 ‘선택 안 함’으로 바꾸면 잘못된 원본코드를 버리고 화순군 이름만으로 연결할 수 있었습니다. 이제 인식된 원본코드를 계속 확인하고 대조표에도 보존합니다.
+- 화면의 ‘원본 통계표·화순군2024 코드 확인’에서 해당 표를 선택합니다. 표·항목·원본코드·전라남도·화순군·원본2024년·선택한2024년을 확인한 경우에만 제한 교차표를 사용합니다. 원본에 orgId/TBL_ID/ITM_ID 등 출처 열이 있으면 선택정보와 함께 대조합니다. 사업체 원본에 산업/규모 코드가 있으면 전체산업·전규모와 대조합니다.
+- 시도는 해당 원본행의 별도 시도 열 또는 ‘전라남도 화순군’처럼 행에 명시돼야 합니다. 앞서 나온 다른 행의 시도를 몰래 빌려 확인 처리하지 않습니다. 연도는 원본 시점열 또는 유일한 헤더연도로 검증합니다. 원본 근거가 없으면 원본 확인을 요구합니다.
+- 12760은 이름 일치·코드선택해제·수동지역지정으로 통과하지 않습니다. 명시적으로 제외할 수는 있지만 제외내역과 확인필요 상태가 남으며 전수성공으로 표시하지 않습니다.
+- 1236370·2017zone_3637은 다른 표·시도·연도·이름이거나 출처를 선택하지 않으면 차단합니다. 확인된 교차표 없는 다른 원본코드는 이름만으로 자동 연결하지 않습니다.
+- GIS2025 기준표와 통계2024의 차이는 경고로 유지합니다. 화순군1개가 맞더라도 전남 범위를 선택하면 나머지21개는 누락으로 남습니다.
+- Windows 원본대조 도구도 같은 원본코드 검증을 적용하고, `SOURCE` 모드나 행 교차표로12760을 우회하지 못하도록 했습니다. 숫자 비교는 원본파일과 실제 다운로드CSV 사이에서 별도 수행합니다.
+
+회귀 기준은 `tests/kosis-egis/fixtures/hwasun-2024-user-reported.json`에 저장했습니다. provenance에는 사용자외부조회·공식원본미제공·에이전트독립다운로드아님·한지역세지표를 명시했습니다. 테스트에서 만든 임시 엑셀은 사용자 기준값을 담은 **재현용 파일**이며 공식 다운로드 원본이 아닙니다.
+
+## 테스트
+
+엔진28개(기존20+후속8) 통과. 세 수치와 원본코드 보존·CSV/XLSX 왕복,12760 차단, 출처·항목·시도·연도·사업체 산업/규모 충돌, 후보 두 개 중 잘못된 코드 채택 금지, 전남21개 누락을 확인했습니다. 보안4개·기존회귀8개·외부요청을 차단한 로컬브라우저12시나리오도 통과했습니다. Windows키트에는 기존 합성10개와 사용자기준 재현/차단7개를 구분해 저장합니다. 실제 외부사이트 브라우저 조작은 수행하지 않았습니다.
+
+## 교사가 준비할 최소 파일
+
+공통: **전라남도 하위 시군,2024년,지표 하나**를 선택하고 코드·시도명·시점이 보이는 Excel을 받습니다. 지역코드표시/분류코드포함 옵션이 있으면 포함합니다. 원본은 수정·덮어쓰지 않고 보존하세요. 코드나 시도가 없는 다운로드라면 해당 원문 분류표·조회설정도 함께 보존합니다. 원본 근거 없는 이름 매칭을 검증 완료로 표시하지 않습니다.
+
+1. [총인구](https://kosis.kr/statHtml/statHtml.do?orgId=101&tblId=DT_1B040A3): 년2024, 전남 하위 시군, T20 총인구수. 화순군은46790·60,735인지 확인합니다. 이름검색의12760은 채택하지 말고 원문 코드·시점·공간단위를 확인합니다.
+2. [고령인구비율](https://kosis.kr/statHtml/statHtml.do?orgId=101&tblId=DT_1YL20631): 년2024, 같은 지역, T10만. 화순군1236370·30.9%를 원문에서 확인합니다. 65세인구·총인구 항목을 같은 값으로 섞지 않습니다.
+3. [사업체수](https://kosis.kr/statHtml/statHtml.do?orgId=118&tblId=DT_118N_SAUPM78):2024, 전남 하위 시군,16118ED_1, 산업전체·규모전규모. 화순군2017zone_3637·2,605인지 확인합니다.
+
+원문 제목·표ID·항목·단위·작성기관·기준일·다운로드일을 파일별로 기록합니다. 표ID·수치3개 확인은 전체지역·조사대상·경계일치의 증거가 아닙니다. 고용노동부 사업체노동실태현황의 조사대상과 전국사업체조사의 정의를 혼동하지 않습니다.
+
+현재 실제 전남22개 파일은 제공되지 않았고, 기존 공식자료 조회의 차단 안내를 우회할 수단이나 추가 인증은 제공되지 않았습니다. 차단 경로를 반복하지 않았습니다. 원본3개가 들어오면 지역별 원본코드 교차표·중복·누락·값을 전수 비교해야 합니다. 현재 준비한 제한 교차표는 화순군만 포함하므로 다른21개의 비GIS코드를 자동 승인하지 않습니다.
+
+## 실제 e-GIS 마지막 수동 검증
+
+1. 실제 e-GIS에서 대한민국 시군구(2025,252개)를 열고 지도 필드code가 문자열임을 확인합니다.
+2. 변환CSV의code와 지도code를 결합합니다. **화순군은 세 통계 모두46790**이어야 합니다. 각각60735·30.9·2605가 붙는지 확인합니다. 숫자는천단위표시를 제외하고 원본과 같아야 하며30.9%를0.309나309로 바꾸지 않습니다.
+3. 코드결합수와 실제값이 있는 지역수를 따로 확인합니다. 한 지역만 있으면1개이며, 빈값을 채운252행 CSV가 있어도252개 실측성공이 아닙니다. 전남22개는 실제 원본22지역 대조 후에만 판정합니다.
+4. 주제도→단계구분도에서 각 통계 숫자열을 선택합니다. 표본1개만으로 전국 또는전남의 유효한 단계구분도를 검증했다고 표시하지 않습니다. 전남파일이 확보되면 범례 구간·최소/최대·결측색·단위·시점·출처를 확인하고 속성표/조인수/지도·범례 화면을 저장합니다.
+
+완료 전 체크 금지: 실제 전남22개 수치 전수비교, 학교PC 실기, 실제 e-GIS 조인·단계구분도·범례. main·운영배포·PR7·Firebase·legacy는 유지합니다. Notion 미반영(연결도구 없음). 수동기록: ‘PR8 화순군2024 사용자외부조회 기준3건 재현·코드안전성 회귀통과, 전남22개 및 실제 지도UI 미검증, 수업운영 최종승인 보류.’

diff --git a/docs/kosis-egis/windows-guide.md b/docs/kosis-egis/windows-guide.md
@@ -101,3 +101,9 @@
 ## 6. 승인된 프록시 경로에서의 향후 브라우저 검증안 — 지금 실행하지 않음
 
 플랫폼이 공식 지원하고 관리하는 브라우저 실행 환경에서만 다음을 제안합니다: 실행 환경의 프록시·CA를 그대로 사용하고, CONNECT/TLS·목적지 응답을 확인한 뒤 공개 KOSIS와 e-GIS를 읽는 최소 시나리오부터 시작합니다. 브라우저의 요청도 관리형 프록시를 통과함이 플랫폼 차원에서 확인돼야 합니다. 앞서 거부된 외부 터미널 브라우저 세션은 재사용하지 않습니다. 승인 전 원격 자동 조작, 직접 인터넷 연결, VPN·터널, 프록시 환경변수 제거, 인증서검증 비활성화, 정책파일 변경은 하지 않습니다. 이번에는 사용자의 보류 결정을 그대로 유지합니다.
+
+## 화순군2024 코드 안전성 보완
+
+세 원본표의 코드는 각각46790 / 1236370 / 2017zone_3637이며 지도키는46790입니다. 최신 [후속 안내](hwasun-2024-followup.md)를 먼저 확인하세요. 화면에서 해당 원본 통계표를 선택하고 전라남도·원본2024년을 확인합니다. 코드 열을 선택해제해도 원본코드를 무시하지 않으며12760은 수동지정으로 통과할 수 없습니다. Windows config에는 source_profile과 org_id를 미리 넣었습니다. 새 파일의 출처·항목·행정단계·연도가 다르면 재사용하지 마세요.
+
+이 교차표는 사용자 외부 조회로 확인한 화순군 한 지역에 한정됩니다. 전남 나머지21개는 실제 원본으로 별도 확인해야 합니다. 키트의 test-hwasun-compare는 사용자 기준값을 재현한 임시 엑셀을 검사하며 공식 원본 다운로드를 수행하지 않습니다. 새 2-test.cmd 로그에는 합성검사와 사용자기준 재현검사를 구분합니다. 실제 지도 검증의 마지막 기대값은 화순군code46790에60735·30.9·2605이며 전남 전수성과 별개입니다.

diff --git a/kosis-egis-tool/README.md b/kosis-egis-tool/README.md
@@ -63,3 +63,7 @@ CHROMIUM_PATH="$(node -e "console.log(require('playwright').chromium.executableP
 [Windows 실행·실제자료 전수 대조 안내](../docs/kosis-egis/windows-guide.md)와 [수업 체크리스트](../docs/kosis-egis/classroom-checklist.md)를 참고하세요. 학생 화면은 원본값대조 CSV·JSON 및 XLSX 시트를 함께 제공합니다. 이는 파일 내부의 변환 전후 점검이며 실제 KOSIS 출처 검증·교사가 다운로드한 파일과의 독립 비교·지도 UI 검증을 대신하지 않습니다.
 
 개발자가 검토한 체크아웃에서 `python3 tests/kosis-egis/build_windows_kit.py /tmp/새폴더`로 오프라인 키트를 재생성할 수 있습니다. 먼저 tests/kosis-egis에서 npm ci --ignore-scripts가 필요합니다. 교사 PC에서는 완성 ZIP과 Node.js22 이상만 필요합니다.
+
+## 화순군2024 원본코드 확인
+
+원본표·항목에 따라46790 / 1236370 / 2017zone_3637을 별개 코드체계로 취급합니다. 원본 통계표를 선택하고 전라남도·2024년을 확인한 화순군 한 지역 교차표만 GIS46790으로 연결합니다.12760은 이름만으로 채택하지 않습니다. 인식된 원본코드는 열 선택을 해제해도 검증하므로 미확인 코드를 이름매칭으로 우회할 수 없습니다. 사용자 기준수치와 공식원본·전남전수의 차이는 [후속 보고](../docs/kosis-egis/hwasun-2024-followup.md)를 참고하세요.

diff --git a/docs/kosis-egis/classroom-checklist.md b/docs/kosis-egis/classroom-checklist.md
@@ -52,3 +52,14 @@
 
 - [x] 학생 화면에 원본행·원본코드·GIS코드·지표별 변환 전후 대조 CSV/JSON/XLSX 추가
 - [x] 공식 사업체 시군구 표 메타데이터 확인(고용노동부 사업체노동실태현황, 실제 수치 미확보)
+
+## 화순군2024 후속 상태
+
+- [x] 사용자 외부조회 기준(60735/30.9/2605) 재현 및세 원본코드→GIS46790 검증
+- [x] 12760 이름후보·코드선택해제·수동우회 차단, 출처·시도·원본연도 충돌 차단
+- [x] 화순군1개 확인 시전남21개 누락 유지, 전남전수성공으로 표시하지 않음
+- [ ] 화순군 기준값3개를 에이전트가 공식 원본으로 독립 재조회(현재 사용자 제공 기준)
+- [ ] 실제 전남22개 원본3종의 코드교차표·수치 전수비교
+- [ ] 실제 e-GIS 단계구분도·범례·결측표시 확인
+
+후속 상세: hwasun-2024-followup.md. 새로운 수치fixture는 사용자 제공값 재현이며 공식 다운로드 파일이 아닙니다.
